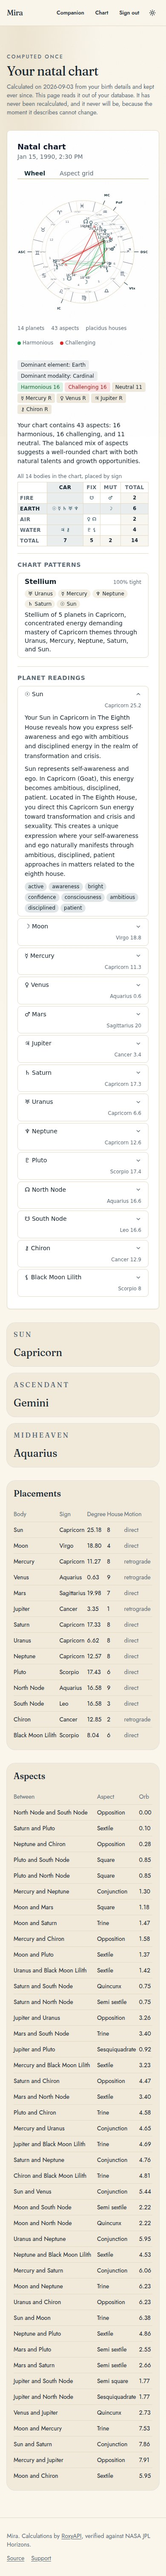
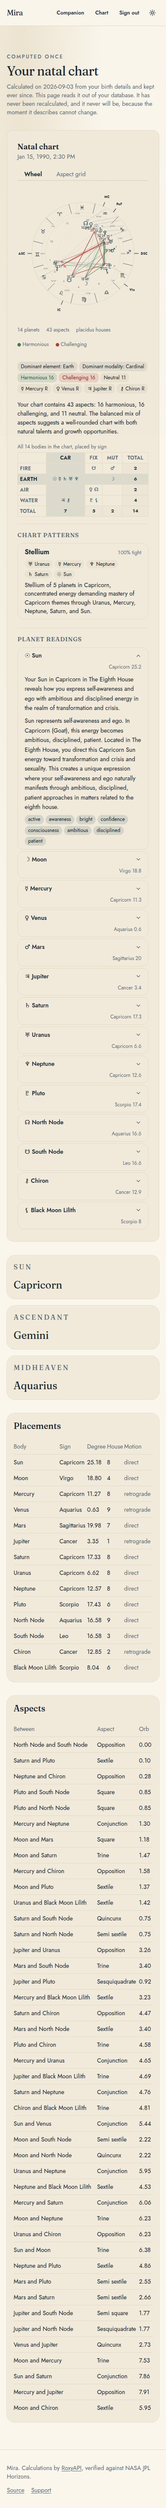
feat: the drawn results take the whole palette, so a chart or a card is the same material as the page around it

diff --git a/src/app/globals.css b/src/app/globals.css
@@ -26,6 +26,14 @@
   --color-popover: var(--popover);
   --color-card-foreground: var(--card-foreground);
   --color-card: var(--card);
+  --color-foreground-soft: var(--foreground-soft);
+  --color-success: var(--success);
+  --color-success-ink: var(--success-ink);
+  --color-warning: var(--warning);
+  --color-warning-ink: var(--warning-ink);
+  --color-destructive-ink: var(--destructive-ink);
+  --color-info: var(--info);
+  --color-info-ink: var(--info-ink);
   --radius-sm: calc(var(--radius) * 0.6);
   --radius-md: calc(var(--radius) * 0.8);
   --radius-lg: var(--radius);
@@ -63,19 +71,74 @@ missing from either. Reasoning and the contrast rule are in docs/design.md.
   --input: #E4DBC6;
   --ring: #254B5A;
 
+  /* One step softer than the foreground and still stronger than the muted ink, for a label, a
+     column head, or a mark that has to stay readable beside its value. Nothing in the product
+     needed a third ink level until a drawn result did, and the stock value for that level is
+     slate, which reads cold on warm paper. */
+  --foreground-soft: #2D3C47;
+
+  /* The status scale. `--destructive` above is one of the four and keeps its name. Each carries an
+     `-ink` partner, which is the text colour for a TINT of that status rather than for the status
+     colour itself, and every pair clears 4.5:1 on a tint of up to a quarter strength. */
+  --success: #3F7A55;
+  --success-ink: #2B5A3C;
+  --warning: #B0702A;
+  --warning-ink: #7C4A10;
+  --destructive-ink: #8C2B29;
+  --info: #3A6B86;
+  --info-ink: #2B5265;
+
   /*
   The bridge to the components that draw a calculation. Every one of them reads `--roxy-*`, so
-  mapping five of those onto the palette above is the whole of theming them, and restyling a
-  component is never the answer. The values are references rather than colours, so the dark block
-  below moves them with everything else and there is no second copy to keep in step. Every token,
-  its light and dark default and what it paints:
+  pointing those at the palette above is the whole of theming them, and restyling a component is
+  never the answer. Every value here is a reference rather than a colour, so the dark block below
+  moves the whole set with everything else and there is no second copy to keep in step. Every
+  token, its light and dark default and what it paints:
   https://github.com/RoxyAPI/ui/blob/main/packages/ui/THEMING.md
+
+  Two are deliberately absent. `--roxy-accent-ink` derives from the accent, mixing toward black in
+  light and passing the accent through in dark, so bridging the accent moves it and the derived
+  light value stays the safer one on a tinted chip. `--roxy-heat` derives from the danger colour
+  the same way. `--roxy-font-mono` is left on its system stack, because a numeric column wants a
+  monospace face and the product loads none.
+
+  The surface pairing is the one worth reading twice: the drawn card is `--roxy-surface`, which
+  seventy modules paint with, and `--roxy-bg` is the field behind an input. Mapping them the other
+  way round puts a white sheet on warm paper.
   */
-  --roxy-bg: var(--card);
+  --roxy-bg: var(--background);
+  --roxy-surface: var(--card);
   --roxy-fg: var(--card-foreground);
+  --roxy-primary: var(--card-foreground);
+  --roxy-secondary: var(--foreground-soft);
   --roxy-muted: var(--muted-foreground);
   --roxy-border: var(--border);
   --roxy-accent: var(--primary);
+  --roxy-ring: var(--ring);
+
+  --roxy-success: var(--success);
+  --roxy-success-fg: var(--success-ink);
+  --roxy-warning: var(--warning);
+  --roxy-warning-fg: var(--warning-ink);
+  --roxy-danger: var(--destructive);
+  --roxy-danger-fg: var(--destructive-ink);
+  --roxy-info: var(--info);
+  --roxy-info-fg: var(--info-ink);
+
+  --roxy-font-sans: var(--font-sans-var), system-ui, sans-serif;
+  --roxy-font-display: var(--font-display-var), Georgia, serif;
+
+  /* The same steps the theme block above builds its radius scale from, and a test asserts the two
+     agree, because a ratio written twice is a ratio that drifts. The library rounds its outer card
+     with the large step, so that one takes the corner this product gives a card. */
+  --roxy-radius-sm: calc(var(--radius) * 0.6);
+  --roxy-radius-md: var(--radius);
+  --roxy-radius-lg: calc(var(--radius) * 1.8);
+
+  /* The product separates surfaces with a border and never with a shadow, so the drawings do too. */
+  --roxy-shadow-sm: none;
+  --roxy-shadow-md: none;
+  --roxy-shadow-lg: none;
 }
 
 .dark {
@@ -97,6 +160,14 @@ missing from either. Reasoning and the contrast rule are in docs/design.md.
   --border: #263A4C;
   --input: #263A4C;
   --ring: #C9A96B;
+  --foreground-soft: #CED0C7;
+  --success: #6FBF8B;
+  --success-ink: #A6DCB8;
+  --warning: #E0A85C;
+  --warning-ink: #F0C68F;
+  --destructive-ink: #F0A39C;
+  --info: #99BAD7;
+  --info-ink: #BFD6E7;
 }
 
 @layer base {

diff --git a/tests/design-tokens.test.ts b/tests/design-tokens.test.ts
@@ -17,6 +17,7 @@ const TOKENS = [
   'foreground',
   'card',
   'card-foreground',
+  'foreground-soft',
   'popover',
   'popover-foreground',
   'primary',
@@ -27,7 +28,14 @@ const TOKENS = [
   'muted-foreground',
   'accent',
   'accent-foreground',
+  'success',
+  'success-ink',
+  'warning',
+  'warning-ink',
   'destructive',
+  'destructive-ink',
+  'info',
+  'info-ink',
   'border',
   'input',
   'ring',
@@ -73,29 +81,91 @@ describe('the social card uses the light palette it cannot read', () => {
 });
 
 /**
- * The components that draw a calculation read their own `--roxy-*` tokens. Mapping those onto the
- * palette is the whole of theming them, and a colour written here instead of a reference is the
- * failure worth catching: it looks right in one theme and wrong in the other.
+ * The components that draw a calculation read their own `--roxy-*` tokens, and every surface,
+ * ink, status colour, face and corner they paint comes from one of them. Mapping the whole set
+ * onto the palette is what makes a drawn result part of the page rather than a card dropped on
+ * it, and a colour written here instead of a reference is the failure worth catching: it looks
+ * right in one theme and wrong in the other.
+ *
+ * Three tokens are absent on purpose and are asserted absent, because setting them would break a
+ * derivation the library depends on: `--roxy-accent-ink` and `--roxy-ring` follow the accent, and
+ * `--roxy-heat` follows the danger colour.
  */
 describe('the drawn calculations follow the palette', () => {
   const light = block(':root');
 
   const BRIDGE: Record<string, string> = {
-    'roxy-bg': 'card',
+    'roxy-bg': 'background',
+    'roxy-surface': 'card',
     'roxy-fg': 'card-foreground',
+    'roxy-primary': 'card-foreground',
+    'roxy-secondary': 'foreground-soft',
+    'roxy-ring': 'ring',
     'roxy-muted': 'muted-foreground',
     'roxy-border': 'border',
     'roxy-accent': 'primary',
+    'roxy-success': 'success',
+    'roxy-success-fg': 'success-ink',
+    'roxy-warning': 'warning',
+    'roxy-warning-fg': 'warning-ink',
+    'roxy-danger': 'destructive',
+    'roxy-danger-fg': 'destructive-ink',
+    'roxy-info': 'info',
+    'roxy-info-fg': 'info-ink',
+    'roxy-font-sans': 'font-sans-var',
+    'roxy-font-display': 'font-display-var',
   };
 
   for (const [roxy, app] of Object.entries(BRIDGE)) {
-    it(`${roxy} reads the ${app} token rather than a colour of its own`, () => {
-      expect(light).toMatch(new RegExp(`--${roxy}:\\s*var\\(--${app}\\);`));
+    it(`${roxy} reads the ${app} token rather than a value of its own`, () => {
+      expect(light).toMatch(new RegExp(`--${roxy}:[^;]*var\\(--${app}[,)]`));
     });
   }
 
+  for (const derived of ['roxy-accent-ink', 'roxy-heat']) {
+    it(`${derived} is left to derive rather than pinned`, () => {
+      expect(css).not.toMatch(new RegExp(`--${derived}:`));
+    });
+  }
+
+  it('never pins a colour of its own anywhere in the stylesheet', () => {
+    const pinned = [...css.matchAll(/--roxy-[a-z-]+:\s*([^;]+);/g)].filter(([, value]) =>
+      /#[0-9A-Fa-f]{3,8}\b|\brgba?\(|\bhsla?\(|\boklch\(/.test(value),
+    );
+    expect(pinned.map(([line]) => line.trim())).toEqual([]);
+  });
+
   it('is declared once, because the dark block already moves what it points at', () => {
     expect(block('.dark')).not.toContain('--roxy-');
+  });
+
+  it('separates surfaces with a border rather than a shadow, like the rest of the product', () => {
+    for (const step of ['sm', 'md', 'lg']) {
+      expect(light).toMatch(new RegExp(`--roxy-shadow-${step}:\\s*none;`));
+    }
+  });
+
+  /**
+   * The radius scale is stated twice, once for Tailwind and once for the components, because the
+   * theme block is tree shaken and its variables cannot be relied on at runtime. A test between
+   * the two is what makes writing a ratio twice safe.
+   */
+  it('draws its corners from the same radius scale the rest of the product uses', () => {
+    const theme = css.match(/@theme inline \{([\s\S]*?)\n\}/)?.[1] ?? '';
+    // The library rounds a small mark with the small step, a panel with the medium one, and its
+    // outer card with the large one, so those land on the product's small, base and card corners.
+    for (const [roxyStep, appStep] of [
+      ['sm', 'sm'],
+      ['lg', '2xl'],
+    ] as const) {
+      const ratio = theme.match(
+        new RegExp(`--radius-${appStep}:\\s*calc\\(var\\(--radius\\) \\* ([0-9.]+)\\)`),
+      )?.[1];
+      expect(ratio).toBeDefined();
+      expect(light).toContain(`--roxy-radius-${roxyStep}: calc(var(--radius) * ${ratio});`);
+    }
+    expect(light).toContain('--roxy-radius-md: var(--radius);');
+    expect(theme).toContain('--radius-lg: var(--radius);');
   });
 });
 

diff --git a/docs/design.md b/docs/design.md
@@ -14,6 +14,7 @@ One palette. It is declared as CSS custom properties in `src/app/globals.css`, m
 | `foreground` | `#14232E` | `#EFE7D3` |
 | `card` | `#F1EADB` | `#1B2A39` |
 | `card-foreground` | `#14232E` | `#EFE7D3` |
+| `foreground-soft` | `#2D3C47` | `#CED0C7` |
 | `popover` | `#F1EADB` | `#1B2A39` |
 | `popover-foreground` | `#14232E` | `#EFE7D3` |
 | `primary` | `#254B5A` | `#C9A96B` |
@@ -24,20 +25,41 @@ One palette. It is declared as CSS custom properties in `src/app/globals.css`, m
 | `muted-foreground` | `#5C6A76` | `#92A4B2` |
 | `accent` | `#B89D62` | `#99BAD7` |
 | `accent-foreground` | `#14232E` | `#16222E` |
+| `success` | `#3F7A55` | `#6FBF8B` |
+| `success-ink` | `#2B5A3C` | `#A6DCB8` |
+| `warning` | `#B0702A` | `#E0A85C` |
+| `warning-ink` | `#7C4A10` | `#F0C68F` |
 | `destructive` | `#B23A38` | `#E4736B` |
+| `destructive-ink` | `#8C2B29` | `#F0A39C` |
+| `info` | `#3A6B86` | `#99BAD7` |
+| `info-ink` | `#2B5265` | `#BFD6E7` |
 | `border` | `#E4DBC6` | `#263A4C` |
 | `input` | `#E4DBC6` | `#263A4C` |
 | `ring` | `#254B5A` | `#C9A96B` |
 
-Eighteen tokens, in the order they are declared. `popover`, `secondary` and `muted` all take the card surface on purpose: this product has one raised surface, not three, and giving them separate values is how a menu ends up a shade off the card it opens over. The shadcn primitives expect all three names to exist, so they are declared rather than dropped.
+Twenty six tokens, in the order they are declared. `popover`, `secondary` and `muted` all take the card surface on purpose: this product has one raised surface, not three, and giving them separate values is how a menu ends up a shade off the card it opens over. The shadcn primitives expect all three names to exist, so they are declared rather than dropped.
+
+Three of the names are ours rather than shadcn, and each earned its place by being needed on screen. `foreground-soft` is the ink level between the foreground and the muted foreground, for a label or a column head that has to stay readable beside its value. The status family (`success`, `warning`, `info`, and the existing `destructive`) paints a legend, a chip and a graded cell. Each status carries an `-ink` partner, which is the text colour for a TINT of that status and not for the status colour itself; every pair clears 4.5:1 on a tint of up to a quarter strength, measured on the rendered pixels rather than assumed.
 
 Selectors are `:root` for light and `.dark` for dark, where `.dark` is written by the theme provider. `tests/design-tokens.test.ts` asserts every token in the table above exists in both blocks, so a half finished recolour fails the suite instead of shipping a dark mode with a light border.
-
-The `:root` block ends with five `--roxy-*` tokens, which is how the components that draw a calculation are themed. They hold references to the palette rather than colours, so the `.dark` block moves them with everything else and there is no second copy to keep in step. The same test fails if one of them is given a colour of its own or is copied into `.dark`.
 
 Contrast is checked against the **card**, not the page background. The card is the darker of the two surfaces in light mode and the lighter one in dark, so a muted value that passes on the background can still fail inside a card, and a chat interface is almost entirely cards. Every foreground and background pair here is AAA, and every muted and primary pair is AA or better.
 
 The primary swaps role between modes on purpose: deep ink on paper in light, warm gold on night in dark. Do not generate the dark values by inverting the light ones.
+
+## Theming the drawn results
+
+The `:root` block ends with twenty five `--roxy-*` tokens, which is how the components that draw a calculation are themed: every surface, ink, border, status colour, focus ring, typeface, corner and shadow they paint comes from one of them. Each holds a reference to a palette token rather than a colour, so the `.dark` block moves the whole set with everything else and there is no second copy to keep in step. `tests/design-tokens.test.ts` fails if one is given a colour of its own, if one is copied into `.dark`, if a radius stops matching the scale the theme block builds, or if a palette token the bridge points at goes missing.
+
+Four things about that bridge are worth knowing before changing it.
+
+**The surface pairing is the opposite of what the token names suggest.** `--roxy-surface` is the card a drawing paints, which is why it takes `--card`, and `--roxy-bg` is only the field behind an input, which is why it takes `--background`. Mapping them the other way round puts a white sheet on warm paper.
+
+**Three tokens are left alone on purpose.** `--roxy-accent-ink` and `--roxy-heat` derive from the accent and the danger colour, so bridging those two moves them, and the derived light ink is the safer one on a tinted chip. `--roxy-font-mono` keeps its system stack, because a numeric column wants a monospace face and this product loads none.
+
+**Accent text on a tint is a different measurement from accent text on the page.** The library documents it and the components handle it by using the plain foreground on a tinted chip. The check that matters is the rendered one: read the composited fill and the ink off the page and compute the ratio, rather than trusting the token values.
+
+**The component library ships a `moonlit` preset built from this exact palette**, at [moonlit.css](https://github.com/RoxyAPI/ui/blob/main/packages/ui/src/styles/themes/moonlit.css). It is generated from the palette data in that package and it is the reference for how these colours are meant to map. This bridge matches it and then goes further, because a preset can only hold literal colours while a bridge can hold references. Read it before re-deciding any mapping here.
 
 ## Typography
 

diff --git a/AGENTS.md b/AGENTS.md
@@ -74,7 +74,7 @@ Four tables, all with row level security keyed to the signed in user: `profiles`
 
 **Change the look.** Two blocks in `src/app/globals.css`, light and dark. `tests/design-tokens.test.ts` fails if you finish one and forget the other.
 
-**Theme the drawings.** Five `--roxy-*` tokens at the end of the `:root` block in `src/app/globals.css` point the components at the palette, so they move with a recolour and need no second copy in `.dark`. Never restyle a component to change how a drawing looks: set a token. Every token, its light and dark default and what it paints: https://github.com/RoxyAPI/ui/blob/main/packages/ui/THEMING.md
+**Theme the drawings.** The `--roxy-*` block at the end of `:root` in `src/app/globals.css` points every surface, ink, border, status colour, focus ring, typeface, corner and shadow the components paint at a palette token, so they move with a recolour and need no second copy in `.dark`. Never restyle a component to change how a drawing looks: set a token, and if the product has no token for what you need, add it to the palette first. Reasoning, the surface pairing that is easy to get backwards, and the tokens left to derive: `docs/design.md`. Every token, its light and dark default and what it paints: https://github.com/RoxyAPI/ui/blob/main/packages/ui/THEMING.md
 
 ## The rules that are not style preferences
 
@@ -105,7 +105,7 @@ Four tables, all with row level security keyed to the signed in user: `profiles`
 - `memory` : recall degrades to recency without an embedding model and searches vectors with one, both paths return the same shape, and a failing embedding provider costs the quality of one recall rather than the turn or the reading.
 - `prompt` : every tone preset has a voice, and the grounding rules and the safety boundaries survive under all of them.
 - `guard` : each API error code still maps to a message somebody can act on, and a missing key never reaches the network.
-- `design-tokens` : every palette token exists in light and dark, the social card still uses the palette it cannot read, and only the stylesheet declares the site width.
+- `design-tokens` : every palette token exists in light and dark, every `--roxy-*` token holds a reference to one of them rather than a colour of its own, the drawn corners still match the radius scale, the social card still uses the palette it cannot read, and only the stylesheet declares the site width.
 - `tool-widgets` : a completed tool call resolves to the component that draws it, a server prefixed tool name still resolves, and a failed call, an undrawable tool and an unparsable result each leave the written answer standing rather than throwing inside the render.
 - `mcp` : the default domain set stays lean, the tool selection stays inside the published guidance, the compact flag reaches every call, and the natal chart tool is never handed to the model.
 

diff --git a/docs/companion.md b/docs/companion.md
@@ -69,7 +69,7 @@ The client is `src/components/companion/chat.tsx`, a client component using the 
 
 **Every tool result is drawn as well as described.** `src/lib/tool-widgets.ts` walks the `dynamic-tool` parts of a message, and for each one that completed it asks `componentForTool` from `@roxyapi/ui-react` which component draws that tool name, parses the JSON text block out of the result, and returns a list. `src/components/companion/tool-widget.tsx` mounts that list above the prose, inside the same bubble. Nothing is listed per tool, so connecting a domain in `src/lib/mcp.ts` is all it takes for its results to draw, and a tool no component covers keeps the written answer instead of breaking it. One line of the system prompt tells the companion the drawing is there, so it interprets rather than reprints.
 
-Two details are load bearing. A streaming message is a new object on every chunk, so a widget is memoised by tool call id and the same `data` object is handed back each time; parsing again would redraw a finished chart under the arriving prose. And the components read their own `--roxy-*` custom properties, which the `:root` block of `globals.css` points at the palette, so a recolour moves them and restyling a component is never the answer.
+Two details are load bearing. A streaming message is a new object on every chunk, so a widget is memoised by tool call id and the same `data` object is handed back each time; parsing again would redraw a finished chart under the arriving prose. And the components read their own `--roxy-*` custom properties, which the `:root` block of `globals.css` points at the palette in full, so a drawing is the same material as the bubble around it and restyling a component is never the answer. The mapping and its traps are in [design.md](./design.md).
 
 **Loading state is a spinner.** Never a coloured shimmer, per [design.md](./design.md). It shows until the companion has something on screen, which a drawing satisfies as much as the first token does.
 

diff --git a/README.md b/README.md
@@ -240,7 +240,7 @@ Nothing is wired per tool. [`@roxyapi/ui-react`](https://www.npmjs.com/package/@
 | [`src/lib/tool-widgets.ts`](https://github.com/RoxyAPI/ai-spiritual-companion/blob/main/src/lib/tool-widgets.ts) | Turns one message into the list of components to draw |
 | [`src/components/companion/tool-widget.tsx`](https://github.com/RoxyAPI/ai-spiritual-companion/blob/main/src/components/companion/tool-widget.tsx) | Renders that list above the prose in the same bubble |
 
-The drawings follow the theme, because five `--roxy-*` tokens in `src/app/globals.css` point at the palette the rest of the product uses. Change the palette and they change with it. [THEMING.md](https://github.com/RoxyAPI/ui/blob/main/packages/ui/THEMING.md) covers every token, and the [AI chat widgets tutorial](https://roxyapi.com/docs/tutorials/ai-chat-widgets) covers the same pattern for other chat frameworks and model vendors.
+The drawings follow the theme. Every surface, ink, border, status colour, focus ring, typeface and corner they paint is pointed at the palette by the `--roxy-*` block in `src/app/globals.css`, so a drawn result is the same material as the page around it and a recolour moves both. [THEMING.md](https://github.com/RoxyAPI/ui/blob/main/packages/ui/THEMING.md) covers every token, and the [AI chat widgets tutorial](https://roxyapi.com/docs/tutorials/ai-chat-widgets) covers the same pattern for other chat frameworks and model vendors.
 
 ## How is model and API spend protected
 
